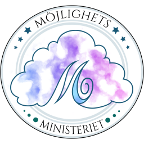
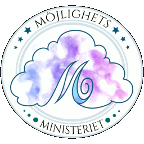
Minify logotype images

diff --git a/client/index.html b/client/index.html
@@ -9,7 +9,7 @@
 
     <base href="/">
 
-    <link rel="icon" href="assets/images/favicon.png">
+    <link rel="icon" href="assets/images/mojlighetsministeriet-72.png">
 
     <!-- See https://goo.gl/OOhYW5 -->
     <link rel="manifest" href="manifest.json">
